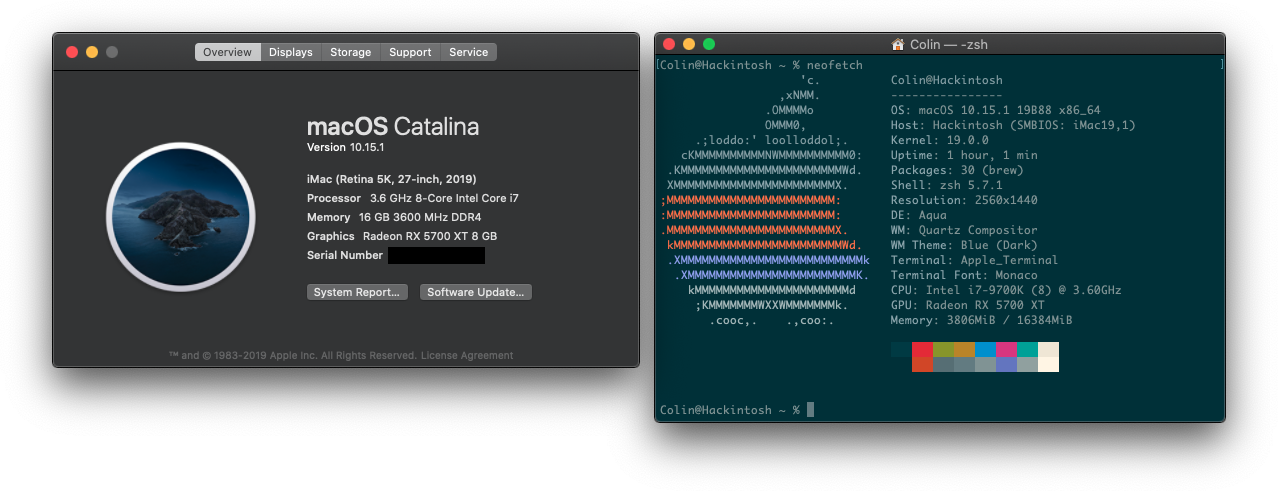
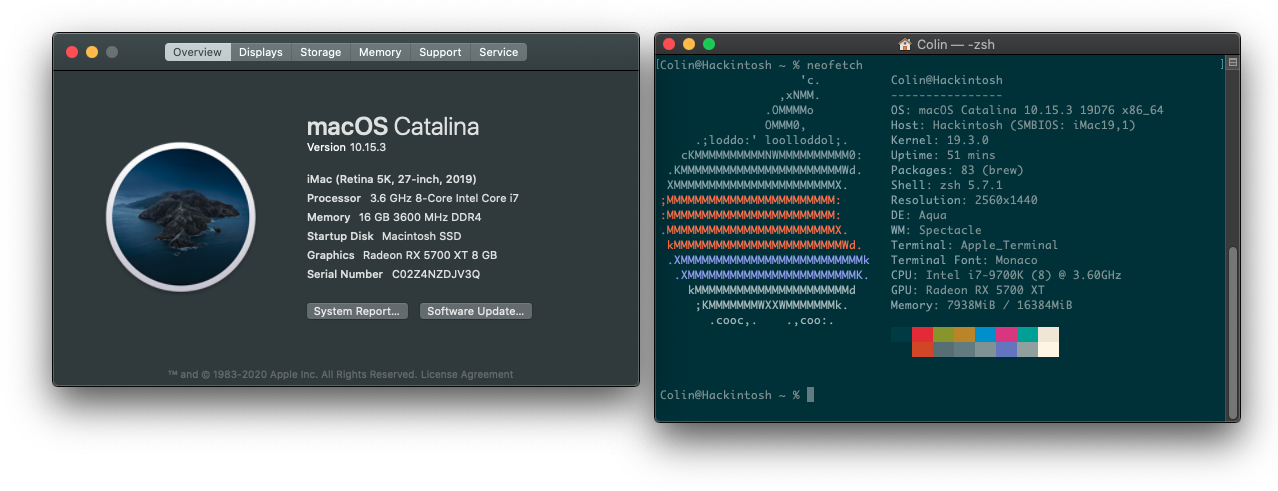
Changed PlatformFeature to restore Memory tab to About This Mac. Fixes #5.

diff --git a/README.md b/README.md
@@ -23,6 +23,7 @@ Installation guide for my vanilla Hackintosh v3 build dual-booting macOS Catalin
   * [Enable FileVault](#enable-filevault)
   * [Enable TRIM for Solid State Drives](#enable-trim-for-solid-state-drives)
   * [Fix CPU Type in About This Mac](#fix-cpu-type-in-about-this-mac)
+  * [Fix Memory Tab in About This Mac](#fix-memory-tab-in-about-this-mac)
   * [Install Clover Theme](#install-clover-theme)
 * [Install Windows 10](#install-windows-10)
 * [Final Clover Configuration](#final-clover-configuration)
@@ -330,7 +331,13 @@ _Note: You should also make these changes to your USB drive Clover configuration
 
 For some reason, About This Mac and System Report do not properly identify the processor and list it as an 'Intel Core i9' instead of an 'Intel Core i7.' This can easily be fixed by using Clover Configurator to set the CPU Type to `0x0705` and rebooting.
 
-![Before/After About This Mac](Screenshots/Post_CPUType.png)
+![Before/After About This Mac - CPU](Screenshots/Post_CPUType.png)
+
+### Fix Memory Tab in About This Mac
+
+The default `iMac19,1` SMBIOS configuration used in this build sets `PlatformFeature=0x22`, which indicates that the system lacks user-upgradable memory and therefore hides the Memory tab on About This Mac (as seen above) and any empty memory slots in the System Report. This can easily be fixed by using Clover Configurator to set `PlatformFeature=0x20` in the `SMBIOS` section and rebooting.
+
+![Before/After About This Mac - Memory](Screenshots/Post_PlatformFeature.png)
 
 ### Install Clover Theme
 
